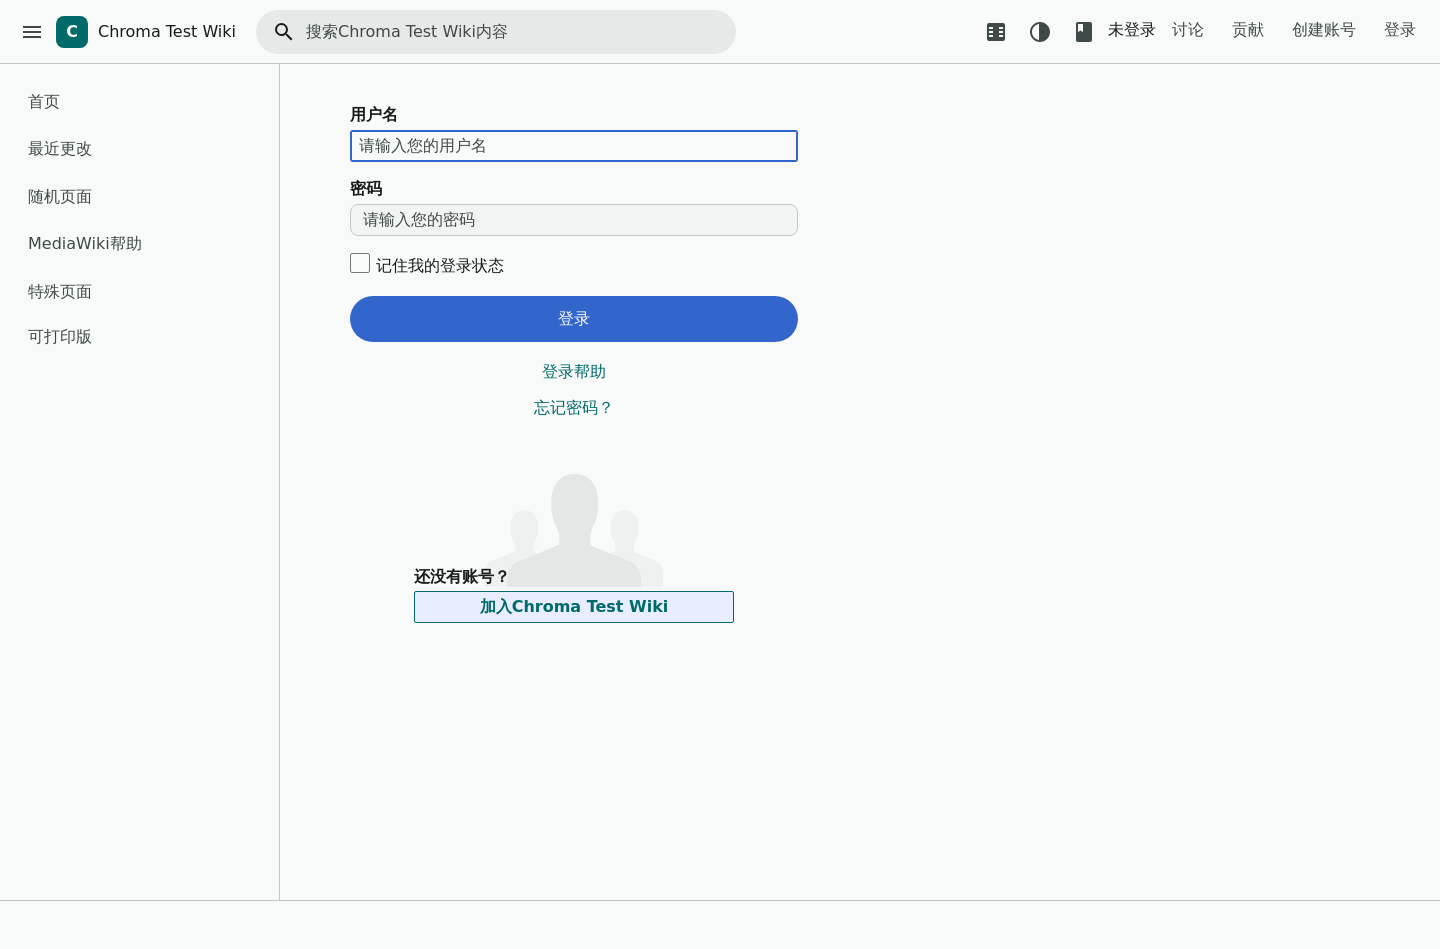
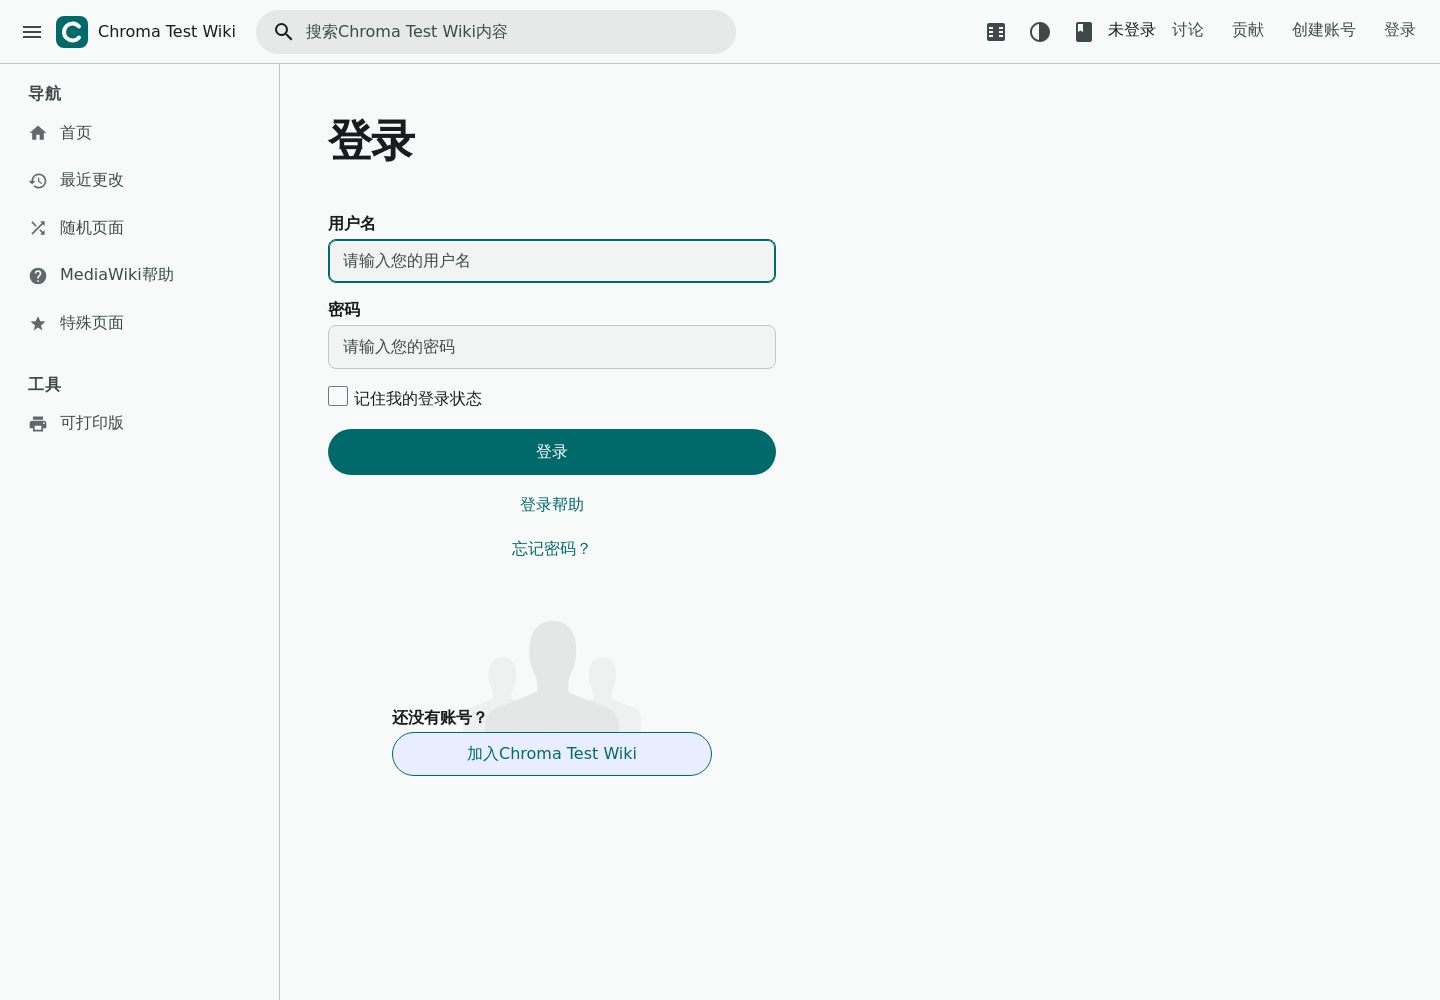
feat: MF mobile takeover, search suggestions, special-page theming, 1.43/1.45 matrix

diff --git a/resources/styles/extensions.css b/resources/styles/extensions.css
@@ -162,3 +162,82 @@ sup.reference a { color: var(--md-sys-color-primary); }
 	color: var(--md-sys-color-on-surface) !important;
 	border-radius: var(--md-sys-shape-corner-medium) !important;
 }
+
+/* core search suggestions, aligned to the Chroma search shell */
+.suggestions {
+	margin-top: 6px;
+	padding: 6px;
+	background: var(--md-sys-color-surface-container) !important;
+	border: 1px solid var(--md-sys-color-outline-variant) !important;
+	border-radius: var(--md-sys-shape-corner-medium) !important;
+	box-shadow: var(--md-sys-elevation-2) !important;
+}
+.suggestions a.mw-searchSuggest-link {
+	border-radius: var(--md-sys-shape-corner-small);
+	color: var(--md-sys-color-on-surface) !important;
+}
+.suggestions-result-current a.mw-searchSuggest-link,
+.suggestions a.mw-searchSuggest-link:hover {
+	background: var(--md-sys-color-secondary-container) !important;
+	color: var(--md-sys-color-on-secondary-container) !important;
+}
+
+/* ---------- special pages: Codex login / preferences ---------- */
+.cdx-text-input__input {
+	background: var(--md-sys-color-surface-container-low) !important;
+	color: var(--md-sys-color-on-surface) !important;
+	border: 1px solid var(--md-sys-color-outline-variant) !important;
+	border-radius: var(--md-sys-shape-corner-small) !important;
+	min-height: 44px;
+	padding: 10px 14px !important;
+}
+.cdx-text-input__input:focus {
+	border-color: var(--md-sys-color-primary) !important;
+	box-shadow: inset 0 0 0 1px var(--md-sys-color-primary) !important;
+}
+.cdx-button {
+	border-radius: var(--md-sys-shape-corner-full) !important;
+	min-height: 44px;
+	padding-inline: 24px !important;
+	font-weight: 500 !important;
+}
+.cdx-button--weight-primary {
+	background: var(--md-sys-color-primary) !important;
+	color: var(--md-sys-color-on-primary) !important;
+	border-color: var(--md-sys-color-primary) !important;
+}
+.cdx-checkbox__input { accent-color: var(--md-sys-color-primary); }
+.mw-htmlform-codex { max-width: 560px; }
+.mw-htmlform-codex .cdx-field { margin-block: 16px; }
+.mw-userlogin-help .cdx-field,
+.mw-form-related-link-container { margin-block: 8px; }
+
+/* ---------- history ---------- */
+#pagehistory { list-style: none; margin: 0; padding: 0; display: grid; gap: 8px; }
+#pagehistory li {
+	margin: 0;
+	padding: 12px 16px;
+	border: 1px solid var(--md-sys-color-outline-variant);
+	border-radius: var(--md-sys-shape-corner-medium);
+	background: var(--md-sys-color-surface-container-low);
+}
+#pagehistory li.selected { background: var(--md-sys-color-secondary-container); border-color: transparent; }
+#pagehistory li .mw-history-pager,
+#pagehistory li .history-deleted { color: var(--md-sys-color-on-surface-variant); }
+.mw-history-compare { margin-block: 16px; }
+.mw-history-compare .mw-ui-button,
+.mw-history-compare button { border-radius: var(--md-sys-shape-corner-full); }
+.mw-history-filter { border: 0; padding: 0; }
+.mw-history-filter legend { color: var(--md-sys-color-on-surface); font-weight: 600; }
+
+/* ---------- diffs ---------- */
+.mw-diff-table { border-collapse: separate; border-spacing: 0; width: 100%; }
+.mw-diff-table td { border: 0; padding: 8px 12px; }
+.mw-diff-marker { width: 2em; color: var(--md-sys-color-on-surface-variant); }
+.diff-addedline { background: color-mix(in srgb, var(--md-sys-color-tertiary-container) 70%, transparent); border-radius: var(--md-sys-shape-corner-extra-small); }
+.diff-deletedline { background: color-mix(in srgb, var(--md-sys-color-error-container) 60%, transparent); border-radius: var(--md-sys-shape-corner-extra-small); }
+.diff-addedline ins, .diff-deletedline del { text-decoration: none; border-radius: 4px; }
+.diff-addedline ins { background: var(--md-sys-color-tertiary-container); }
+.diff-deletedline del { background: var(--md-sys-color-error-container); }
+.mw-diff-inline-added, .mw-diff-inline-changed { background: var(--md-sys-color-tertiary-container); border-radius: 4px; }
+.mw-diff-inline-deleted { background: var(--md-sys-color-error-container); border-radius: 4px; }

diff --git a/README.md b/README.md
@@ -7,7 +7,7 @@
 [![MediaWiki](https://img.shields.io/badge/MediaWiki-1.43%20%7C%201.45%20%7C%201.46-36c.svg)](docs/COMPAT-MATRIX.md)
 [![Demo](https://img.shields.io/badge/demo-GitHub%20Pages-006a6a.svg)](https://chroma-mediawiki.github.io/mediawiki-skins-Chroma/demo/)
 
-> 状态：v0.4.1。已在 MediaWiki 1.43.0 / 1.45.0 / 1.46.0 真机通过冒烟；CI、Pages 与三个发布分支均通过。
+> 状态：v0.5.0。1.43 / 1.45 / 1.46 真机 + 30 个 Tier 1 扩展矩阵通过；MobileFrontend 手机端全接管；CI 与 Pages 通过。
 
 ![Chroma 横幅](screenshots/readme-banner.svg)
 
@@ -27,11 +27,17 @@
 |---|---|
 | ![真机浅色](screenshots/mw146-content.png) | ![真机深色](screenshots/mw146-content-dark.png) |
 
-### 手机端（MediaWiki 1.46.0 + MobileFrontend，强制 Chroma）
+### 手机端（MediaWiki 1.46.0 + MobileFrontend 全接管）
 
 | 浅色 | 深色 |
 |---|---|
 | ![手机浅色](screenshots/mw146-mobile-chroma.png) | ![手机深色](screenshots/mw146-mobile-dark.png) |
+
+扩展矩阵（1.43 / 1.45，Cite、Math、SyntaxHighlight、InputBox、Poem 等）：
+
+| MediaWiki 1.43 | MediaWiki 1.45 |
+|---|---|
+| ![1.43 扩展矩阵](screenshots/mw143-extensions.png) | ![1.45 扩展矩阵](screenshots/mw145-extensions.png) |
 
 > 手机 UA 默认由 MinervaNeue 提供；`?useskin=chroma` 使用 Chroma 响应式布局。
 
@@ -42,6 +48,8 @@
 - 动态色彩：管理员设置默认 seed，用户在偏好设置中选择主题色与明暗模式。
 - 两种布局：应用式（顶栏 + 导航抽屉）与阅读式（接近 Vector 2022），可随时切换。
 - 阅读模式：隐藏侧栏与操作栏，正文限宽居中，专注长文阅读。
+- 搜索联想：接入核心 `mediawiki.searchSuggest`，搜索结果使用 MD3 面板样式。
+- 特殊页：登录（Codex）、历史、版本差异、偏好设置统一 Material 样式。
 - 无外部请求：字体、图标与脚本全部随皮肤分发，不依赖 CDN。
 - 可访问性：WCAG 2.2 AA、键盘可操作、支持 `prefers-reduced-motion`。
 - 页面结构：标题、页面标签与操作同排；侧栏分组 + 图标；目录支持嵌套与 scroll-spy；引用改为编辑式 pull quote。
@@ -65,6 +73,9 @@
 ```php
 wfLoadSkin( 'Chroma' );
 $wgDefaultSkin = 'chroma';
+
+// 可选：MobileFrontend 全接管手机端
+// $wgDefaultMobileSkin = 'chroma';
 ```
 
 ## 配置
@@ -83,7 +94,7 @@ $wgChromaAllowUserColor = true;
 
 - MediaWiki 1.43 LTS / 1.45 / 1.46，分别维护于 `REL1_43`、`REL1_45`、`REL1_46` 分支。
 - Tier 1 扩展（MediaWiki 自带 33 个 + 社区轻量热门扩展）见 [docs/COMPATIBILITY.md](docs/COMPATIBILITY.md)。
-- MobileFrontend：B2 共存（手机 UA 由 MinervaNeue 提供，桌面与 `?useskin=chroma` 使用 Chroma 响应式布局）；全接管仍在推进。
+- MobileFrontend：**全接管**。安装 MobileFrontend 并设置 `$wgDefaultMobileSkin = 'chroma';` 后，手机 UA 直接使用 Chroma 响应式布局，不再依赖 MinervaNeue。
 
 ## 开发
 

diff --git a/docs/COMPATIBILITY.md b/docs/COMPATIBILITY.md
@@ -14,7 +14,24 @@ TemplateData, TextExtracts, Thanks, TitleBlacklist, VisualEditor, WikiEditor.
 
 Verified pages: article with `<ref>`, `<math>`, `<syntaxhighlight>`, `<poem>`,
 `<inputbox>`, `<categorytree>`; wikitext editor with WikiEditor toolbar;
-VisualEditor; history; Special:Version; Special:Notifications; Special:LintErrors.
+VisualEditor; history; diff; login; preferences; Special:Version;
+Special:Notifications; Special:LintErrors.
+
+## 1.43 / 1.45 extension matrix (2026-10-31)
+
+30 Tier 1 extensions were installed from each release branch and loaded on both
+MediaWiki 1.43.0 and 1.45.0: CategoryTree, Cite, CiteThisPage, CodeEditor,
+ConfirmEdit, Echo, Gadgets, ImageMap, InputBox, Linter, LoginNotify, Math,
+MultimediaViewer, Nuke, OATHAuth, PageImages, ParserFunctions, PdfHandler, Poem,
+ReplaceText, Scribunto, SecureLinkFixer, SpamBlacklist, SyntaxHighlight_GeSHi,
+TemplateData, TextExtracts, Thanks, TitleBlacklist, WikiEditor.
+
+The matrix page renders `<ref>`, `<math>` (native MathML), `<syntaxhighlight>`,
+`{{#if:}}`, `<poem>` and `<inputbox>`. Screenshots:
+`screenshots/mw143-extensions.png`, `screenshots/mw145-extensions.png`.
+
+Exceptions: AbuseFilter still needs `Wikimedia\Equivset`; VisualEditor /
+DiscussionTools need the `lib/ve` submodule bundle and are tested on 1.46 only.
 
 Known harness issues (not skin defects):
 
@@ -31,7 +48,7 @@ Known harness issues (not skin defects):
 - CheckUser and TemplateStyles placeholders from the core source archive are not
   installed; they are not needed for the skin harness.
 
-## MobileFrontend (B2) — MediaWiki 1.46.0
+## MobileFrontend takeover — MediaWiki 1.46.0
 
 - Installed `MobileFrontend` + `MinervaNeue`.
 - Desktop UA: Chroma (skin-chroma).
@@ -39,7 +56,8 @@ Known harness issues (not skin defects):
   desktop skin; no functional breakage.
 - Forced `?useskin=chroma` on a mobile viewport renders Chroma's responsive
   layout (drawer becomes overlay, search collapses to an icon, TOC hidden).
-- Result: B2 coexistence verified.
+- Result: Chroma full mobile takeover verified with
+  `$wgDefaultMobileSkin = 'chroma'`; no MinervaNeue dependency required.
 
 ## Tier 1 — in scope for v0.1
 

diff --git a/CHANGELOG.md b/CHANGELOG.md
@@ -1,3 +1,12 @@
+## v0.5.0 (2026-10-31)
+
+- MobileFrontend full takeover: mobile UA gets Chroma via
+  `$wgDefaultMobileSkin = 'chroma'`; MinervaNeue no longer required.
+- Search suggestions via core `mediawiki.searchSuggest`, themed to MD3.
+- Special pages: Codex login form, history cards and diff colors themed.
+- 1.43.0 / 1.45.0 extension matrix: 30 Tier 1 extensions loaded and rendered.
+- Version bump to 0.5.0.
+
 # Changelog
 
 ## v0.4.1 (2026-10-31)
